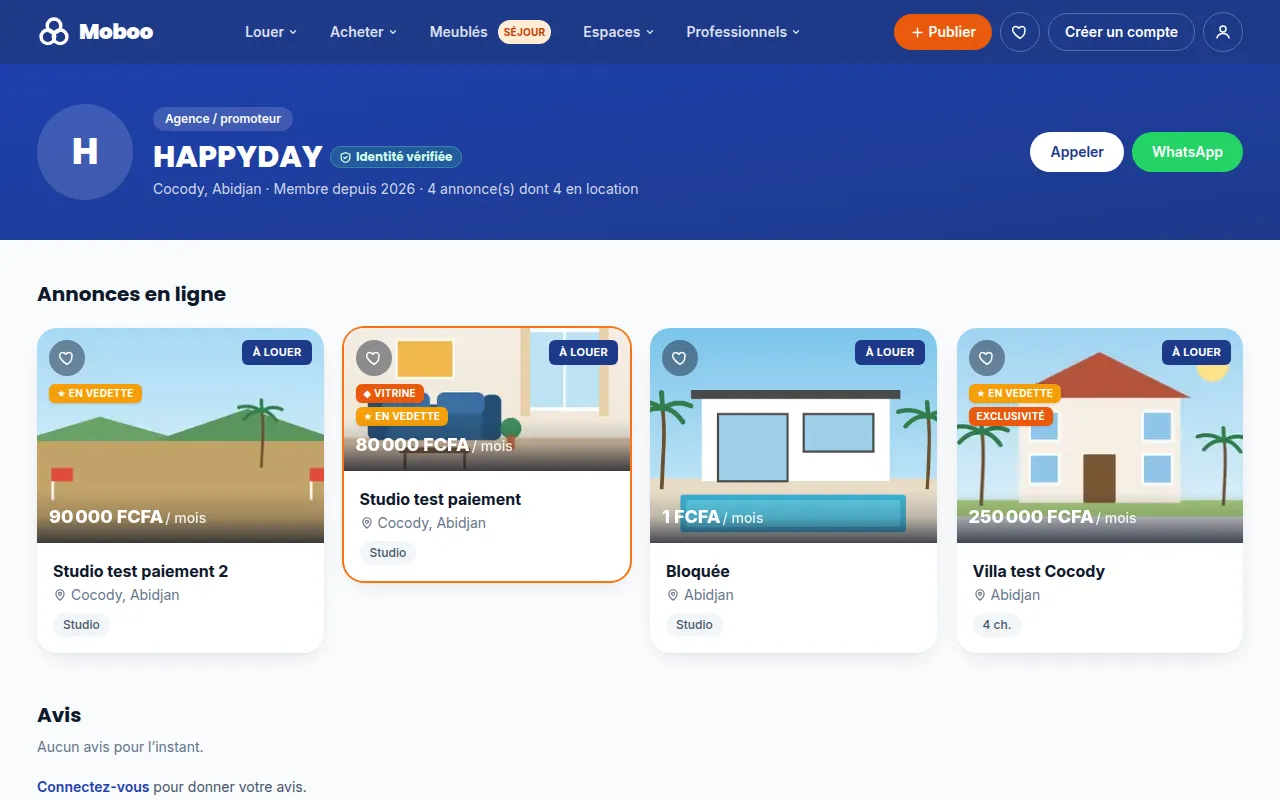
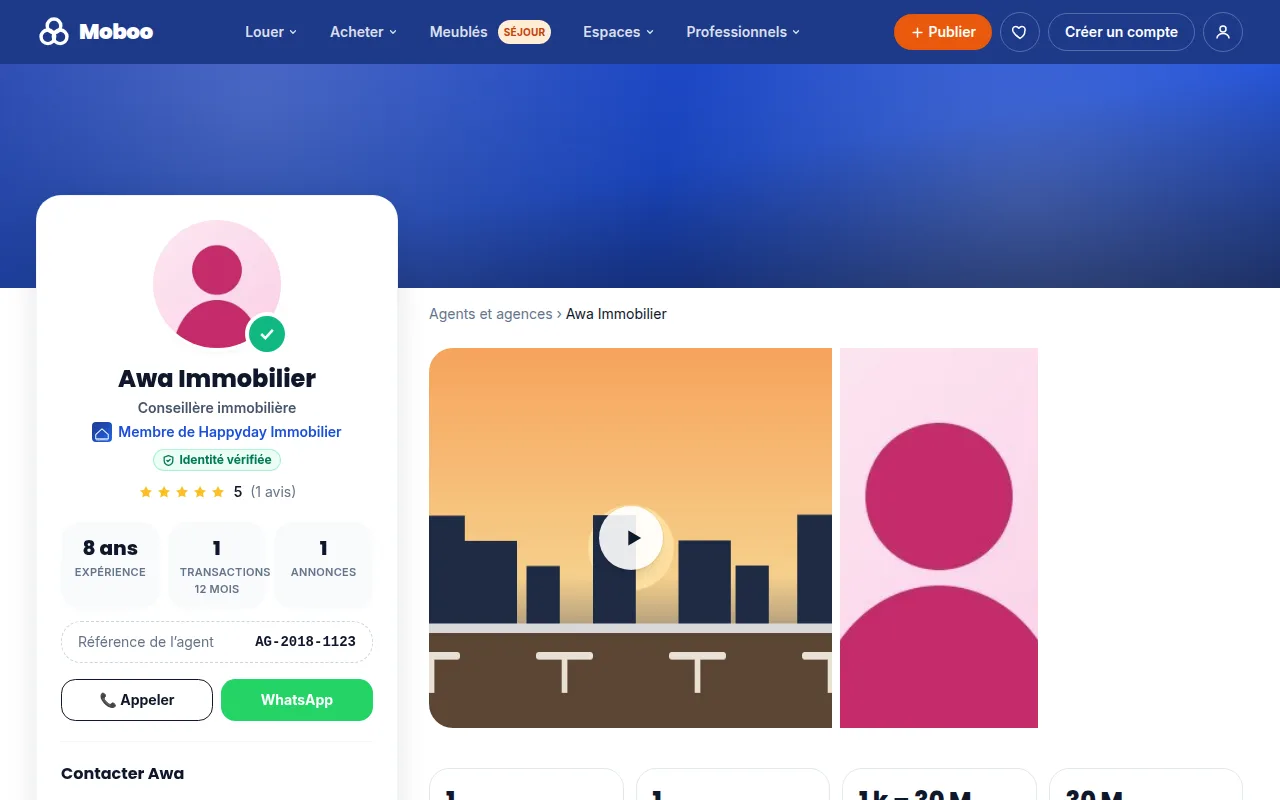
Nouvelles captures des pages agent et agence (guide et pages Professionnels), mises à jour aussi sur les pages déjà publiées
Claude-Session: https://claude.ai/code/session_014rvF8qhWvwn5qG1XZjb6vU

diff --git a/lib/pro-blocks.ts b/lib/pro-blocks.ts
@@ -173,7 +173,7 @@ export const PRO_DEFAULTS: Record<ProSlug, ProContent> = {
   "pros-agents": {
     meta: { title: "Agents immobiliers : plus de mandats et de clients avec Moboo.ci", description: "Page professionnelle, publication de vos mandats, suivi des demandes, statistiques, badge Vérifié et visibilité par quartier : Moboo.ci, l’outil des agents immobiliers en Côte d’Ivoire." },
     sections: [
-      s("proHero", { eyebrow: "Agents immobiliers", title: "Plus de clients, moins de temps perdu", subtitle: "Publiez vos mandats, recevez des demandes qualifiées et suivez chaque client jusqu’à la signature, depuis une seule application.", primaryLabel: "Créer mon compte agent", primaryHref: "/inscription", secondaryLabel: "Être rappelé", secondaryHref: "#contact", image: "/aide/demandes.webp" }),
+      s("proHero", { eyebrow: "Agents immobiliers", title: "Plus de clients, moins de temps perdu", subtitle: "Publiez vos mandats, recevez des demandes qualifiées et suivez chaque client jusqu’à la signature, depuis une seule application.", primaryLabel: "Créer mon compte agent", primaryHref: "/inscription", secondaryLabel: "Être rappelé", secondaryHref: "#contact", image: "/aide/page-pro.webp" }),
       stats(["searches30", "recherches de clients (30 j)"], ["inquiries30", "demandes envoyées aux annonceurs (30 j)"], ["views30", "vues d’annonces (30 j)"], ["listings", "annonces en ligne"]),
       s("proFeatures", { title: "Tout ce dont un agent a besoin", subtitle: "Gratuit pour démarrer, sans commission sur vos affaires.", columns: "3", items: [
         { icon: "🪪", title: "Votre page professionnelle", text: "Photo, présentation, WhatsApp, réseaux, toutes vos annonces et vos avis : partagez-la comme une carte de visite.", href: "/aide/article/agent-demarrer" },
@@ -207,7 +207,7 @@ export const PRO_DEFAULTS: Record<ProSlug, ProContent> = {
   "pros-agences": {
     meta: { title: "Agences immobilières et promoteurs : votre vitrine sur Moboo.ci", description: "Présentez votre agence et vos programmes, publiez automatiquement par API ou WordPress, suivez les demandes, gérez forfaits et factures : Moboo.ci pour les agences et promoteurs immobiliers." },
     sections: [
-      s("proHero", { eyebrow: "Agences et promoteurs", title: "Toute votre agence, visible partout en Côte d’Ivoire", subtitle: "Une vitrine pour votre marque, vos biens et vos programmes neufs, des demandes centralisées et une publication automatique depuis vos outils.", primaryLabel: "Créer le compte de l’agence", primaryHref: "/inscription", secondaryLabel: "Parler à un conseiller", secondaryHref: "#contact", image: "/aide/api.webp" }),
+      s("proHero", { eyebrow: "Agences et promoteurs", title: "Toute votre agence, visible partout en Côte d’Ivoire", subtitle: "Une vitrine pour votre marque, vos biens et vos programmes neufs, des demandes centralisées et une publication automatique depuis vos outils.", primaryLabel: "Créer le compte de l’agence", primaryHref: "/inscription", secondaryLabel: "Parler à un conseiller", secondaryHref: "#contact", image: "/aide/page-agence.webp" }),
       stats(["listings", "annonces en ligne"], ["searches30", "recherches (30 j)"], ["inquiries30", "demandes de clients (30 j)"], ["cities", "villes couvertes"]),
       s("proFeatures", { title: "Pensé pour les équipes et les volumes", columns: "3", items: [
         { icon: "🏢", title: "Vitrine de l’agence", text: "Logo, présentation, tous vos biens et vos avis sur une page à votre nom.", href: "/aide/article/agence-demarrer" },
